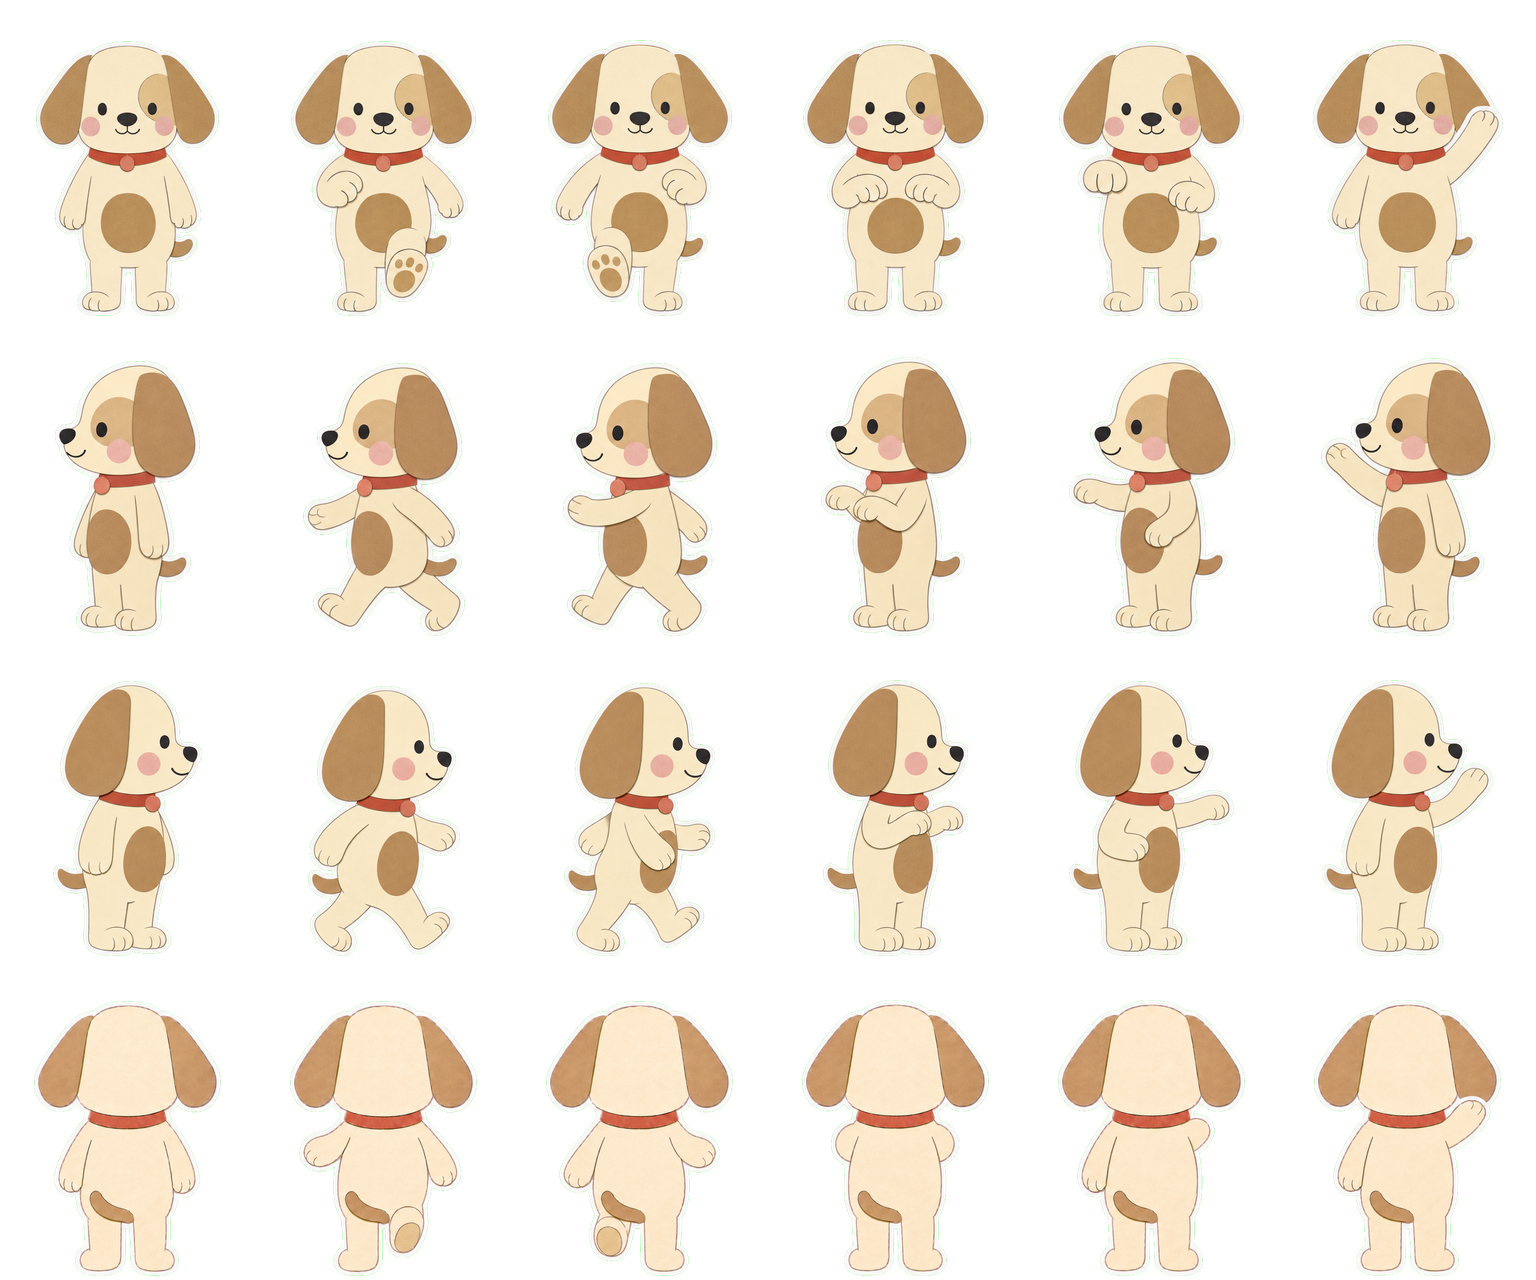
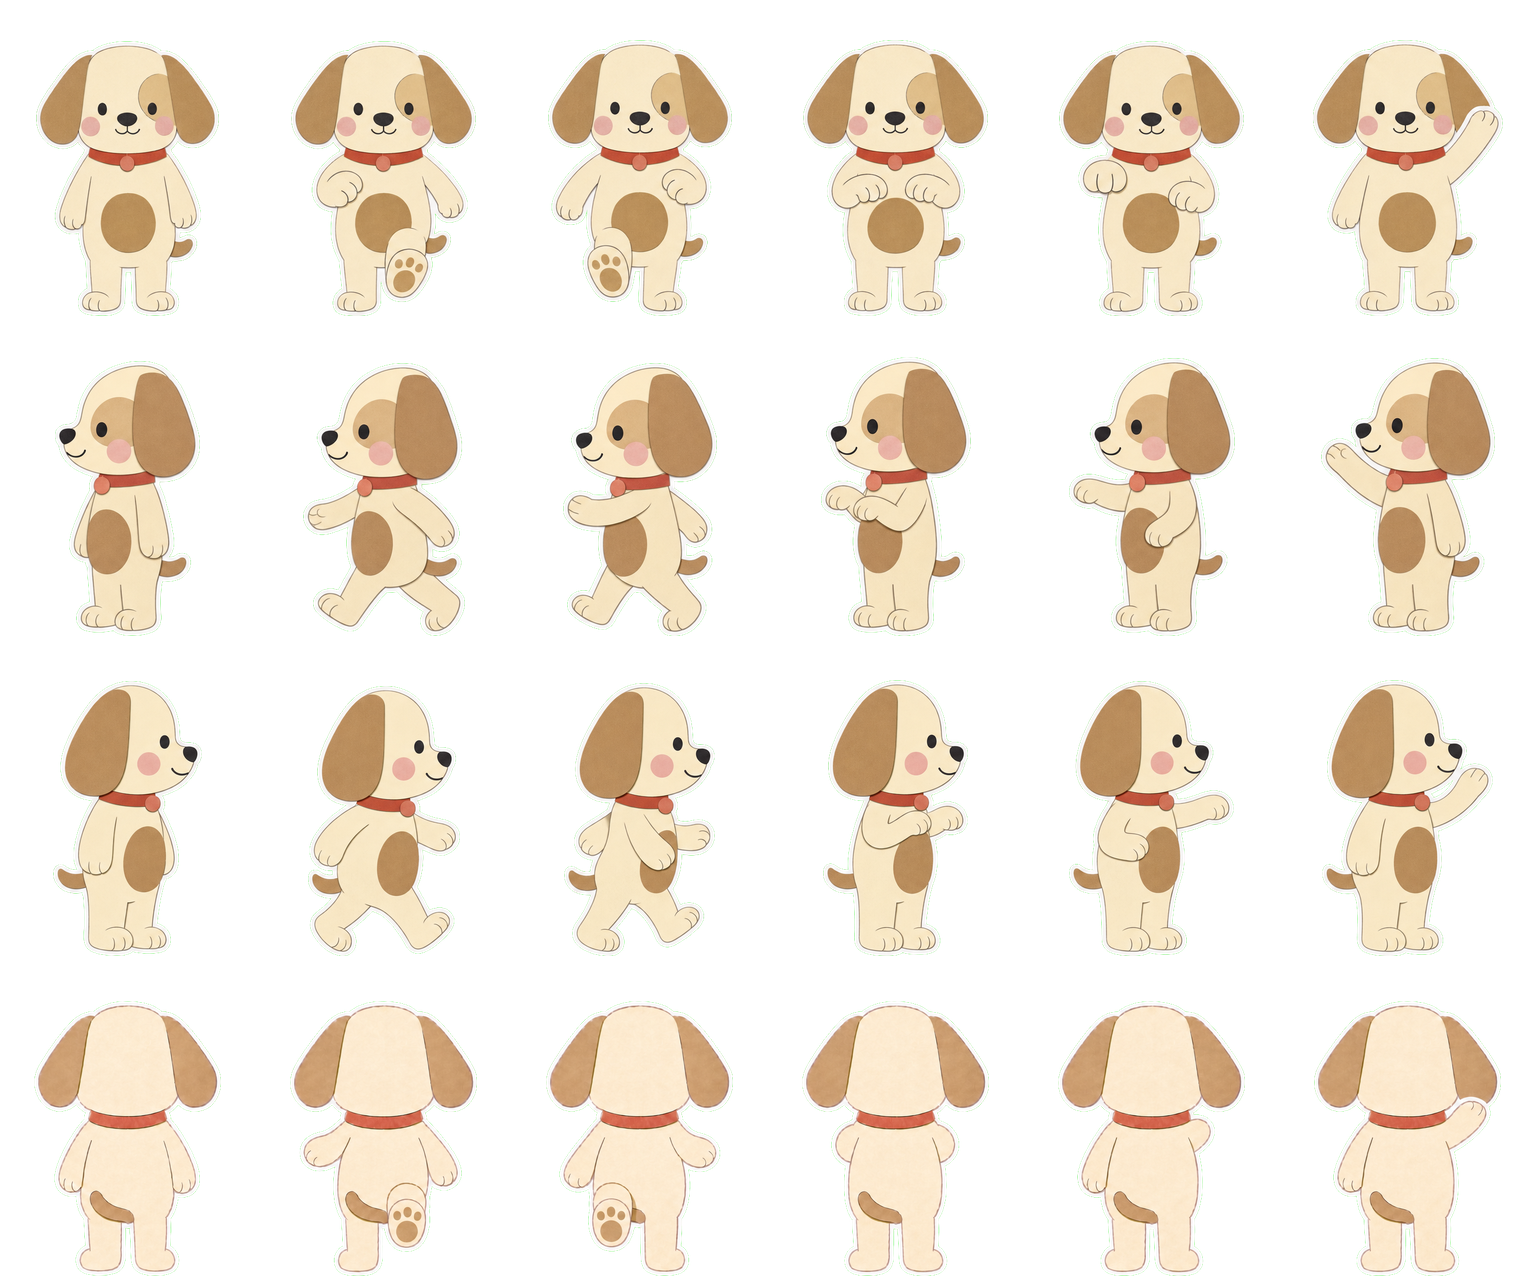
Primepaw: from behind, the puppy's lifted foot hangs under its hip with its sole square to the viewer, the front's step seen from the other side
The back strip bent the raised leg out to the side with a small oval at its end. One edit of the strip, with the front strip as the second reference, puts the lifted foot right under the hip at knee height, heel up, the whole pad with its toes facing the viewer, in the two walking cells only. The README and the character skill's walk-up clause and judging notes now say so.

diff --git a/mockups/primepaw/.claude/skills/primepaw-character/references/comfy.md b/mockups/primepaw/.claude/skills/primepaw-character/references/comfy.md
@@ -92,7 +92,11 @@ as two items of one batch, is the cheap way to have a choice.
 - **Each strip:** the turnaround on `image_1`, the body on `image_2`, the strip prompt, which points at
   the turnaround's figure for that facing. Ask for a grid of 3 columns and 2 rows at that size (the model
   draws 3:2, not a 4:1 strip, and `build.py` reads the six cells in reading order either way) and spell
-  the walk out: legs under the body, one foot lifted so its sole shows, never spread sideways.
+  the walk out: legs under the body, one foot lifted so its sole shows, never spread sideways, and
+  from behind the lifted foot kicked up toward the viewer with its sole square on, the front's lifted
+  foot seen from the other side, not a leg angled out sideways with a small oval at its end. A strip
+  with one pose wrong is an edit like the turnaround: the strip as `image_1`, the strip it has to
+  match (the front one, for the walking feet) as `image_2`, reproduced exactly with that one change.
 
 It costs 5 to 29 credits an image and the spend is gated, so ask the user before submitting. It returns
 either a green sheet or a transparent PNG, the figure at alpha 250 to 254 with a faint halo below 30:
@@ -124,6 +128,8 @@ Judge the walk strips as a set: `build.py` scales each facing to the same standi
 drawn a little smaller is fine, but one drawn much smaller comes out soft. The figure must stay upright
 and square to the viewer in every cell; the back view is the one that goes wrong, Qwen twisting the
 body or splaying the legs and any model making up a back it was never shown, so draw the turnaround
-first (above), check each strip against its figure there, and look at the back's walking cells closely.
+first (above), check each strip against its figure there, and look at the back's walking cells closely
+(the lifted foot: its sole square to the viewer with the heel up, the front strip's lifted foot seen
+from behind, not a leg angled out to the side).
 The avatar must be one round sticker filling the frame, and the body a full figure with its feet on the
 ground and nothing cropped.

diff --git a/mockups/primepaw/pet/README.md b/mockups/primepaw/pet/README.md
@@ -194,6 +194,21 @@ paw pushed forward out of sight in front of it; 6. waving hello with one paw rai
 head, seen from behind. Flat paper, no shadows, no gradients, like a paper puppet moved between
 photographs."
 
+That strip walked with the wrong foot: from behind it bent the raised leg out to the side with a small
+oval at its end, where the front strip hangs the lifted foot straight down under the raised knee with
+its whole sole to the viewer. The same step seen from behind is that foot kicked up toward the viewer,
+heel up, sole square on. One edit of the strip put it there, the strip as the first reference and the
+front strip as the second: "...Reproduce the first reference image exactly... Change one thing only, in
+cells 2 and 3, the two walking cells: the lifted foot. In the front sheet the walking puppy raises one
+bent leg and the whole sole of its lifted foot faces the viewer square on, a big round cream paw pad
+with its toe beans, the foot hanging straight down under the raised knee. Seen from behind, that same
+step shows the lifted foot kicked up behind the puppy toward the viewer, heel up: the lower leg of the
+bent leg folds back toward the viewer and the whole sole of that foot faces the viewer square on, the
+same big round cream paw pad with its toe beans as in the front sheet, toes pointing down, the foot
+drawn at the height of the other leg's knee and directly below the puppy's hip, not a small oval at
+the end of a leg angled out to the side... Everything else in every cell stays exactly as in the first
+reference image." The skill's `walk-up` facing clause now says so from the start.
+
 **The other walk strips** (one per facing, from the body; GPT Image drew them as a grid of 3 columns and
 2 rows at 1536 by 1024, the Qwen runs before them as one row of 6 cells at 2048 by 512): "...draw a
 stop-motion sprite strip: one row of 6 cells of equal size, on a solid flat bright green (#00FF00) background, with no grid

diff --git a/mockups/primepaw/.claude/skills/primepaw-character/references/prompts.md b/mockups/primepaw/.claude/skills/primepaw-character/references/prompts.md
@@ -82,7 +82,7 @@ the only things that change between the four strips.
 - `walk-down`: "first figure, the front"; "straight from the front, facing the viewer, its body upright and square to the viewer in every cell, never turning"
 - `walk-left`: "second figure, the left side"; "from the side in strict profile, turned to face the left edge of the picture, so we see {SIDE}; its head stays in that profile in every cell, never turning toward the viewer, so only one eye ever shows"
 - `walk-right`: "fourth figure, the right side"; "from the side in strict profile, turned to face the right edge of the picture, so we see {SIDE} mirrored, its tail at the left; its head stays in that profile in every cell, never turning toward the viewer, so only one eye ever shows"
-- `walk-up`: "third figure, the back"; "from directly behind, facing straight away from the viewer, so we see {BACK}; its body stays upright and square to the viewer, never turning; in cell 4 only its elbows show at its sides, and in cell 5 the pushed {PAW} is out of sight in front of it"
+- `walk-up`: "third figure, the back"; "from directly behind, facing straight away from the viewer, so we see {BACK}; its body stays upright and square to the viewer, never turning; in cell 4 only its elbows show at its sides, and in cell 5 the pushed {PAW} is out of sight in front of it; in cells 2 and 3 the lifted foot kicks up behind it toward the viewer, heel up, so its whole sole faces the viewer square on with its pads, toes pointing down, drawn at the height of the other knee and right under the hip, never a leg angled out to the side with a small oval at its end"
 
 Without GPT credits, Qwen draws a strip from the body alone, at 2048 by 512 as one row of 6 cells: open
 with the body prompt's recap ("Using the paper cut-out {CREATURE} from the reference image exactly as it
